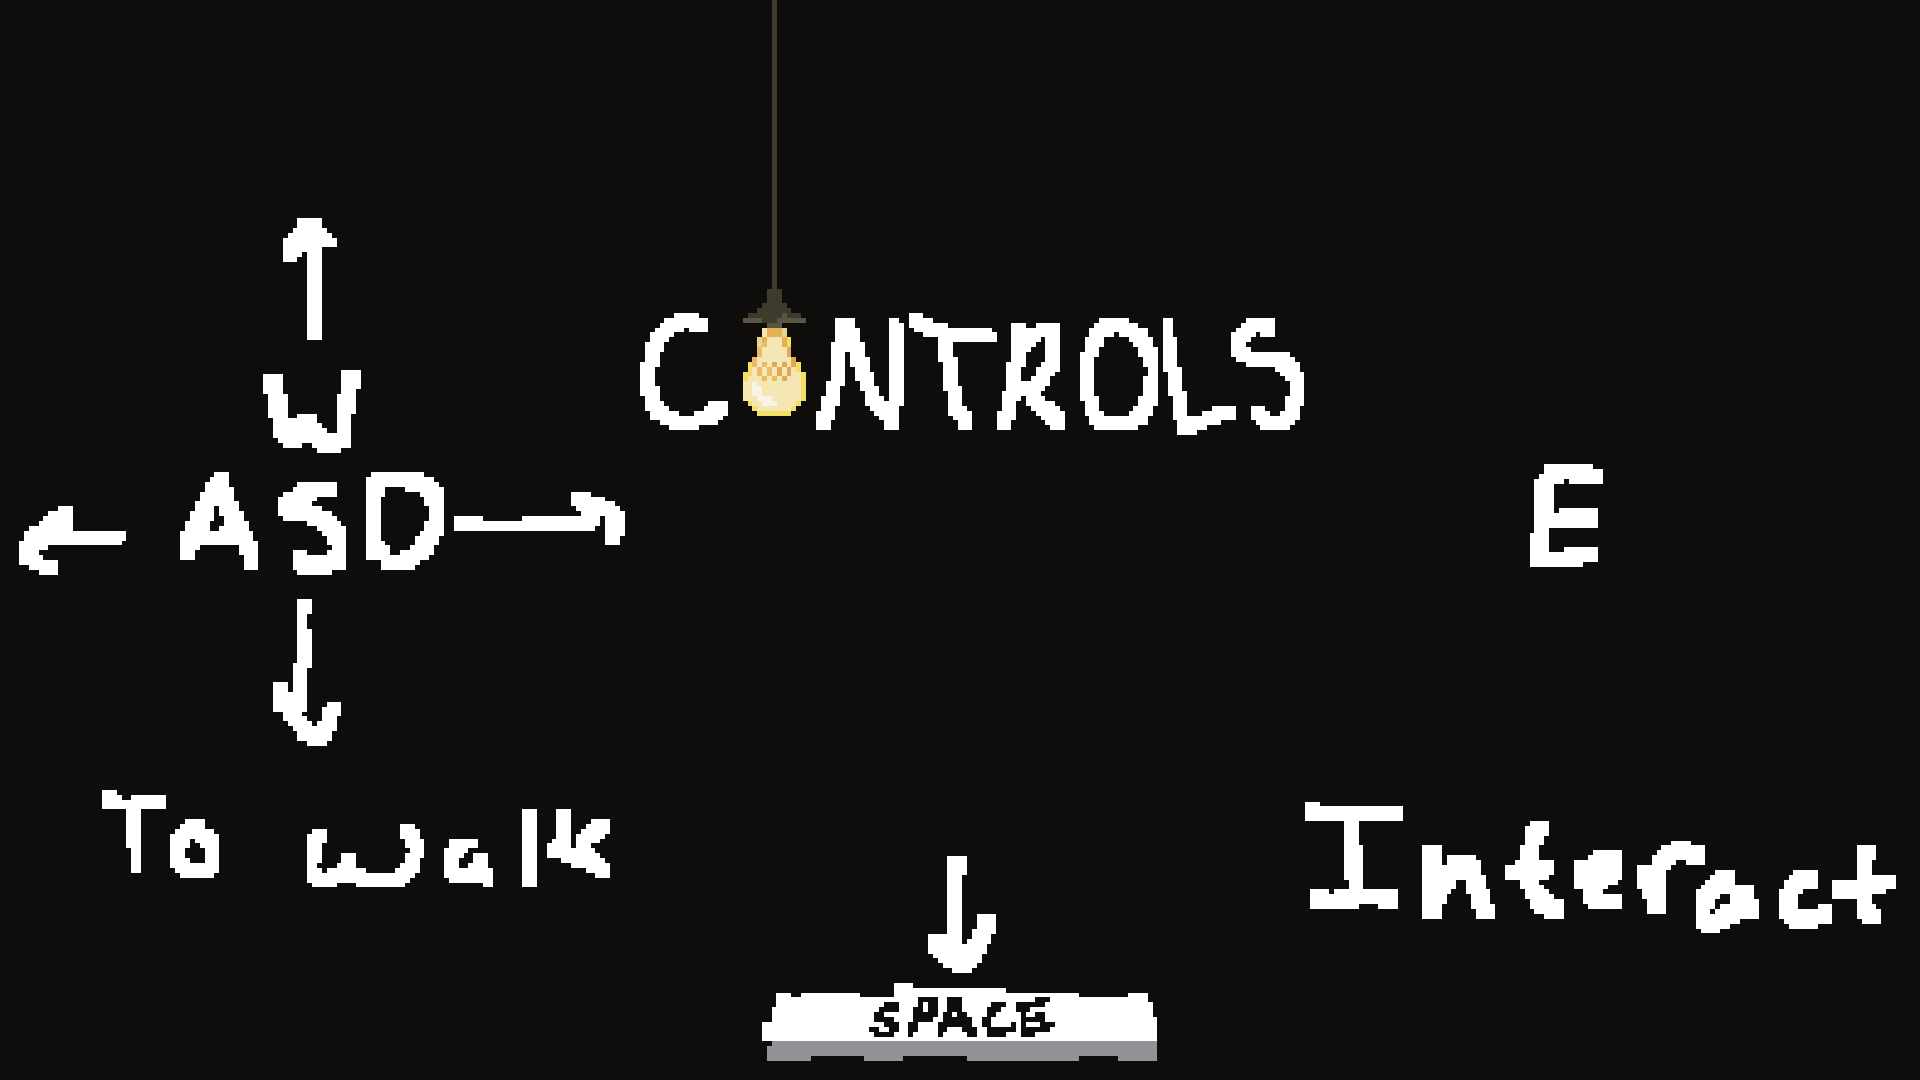
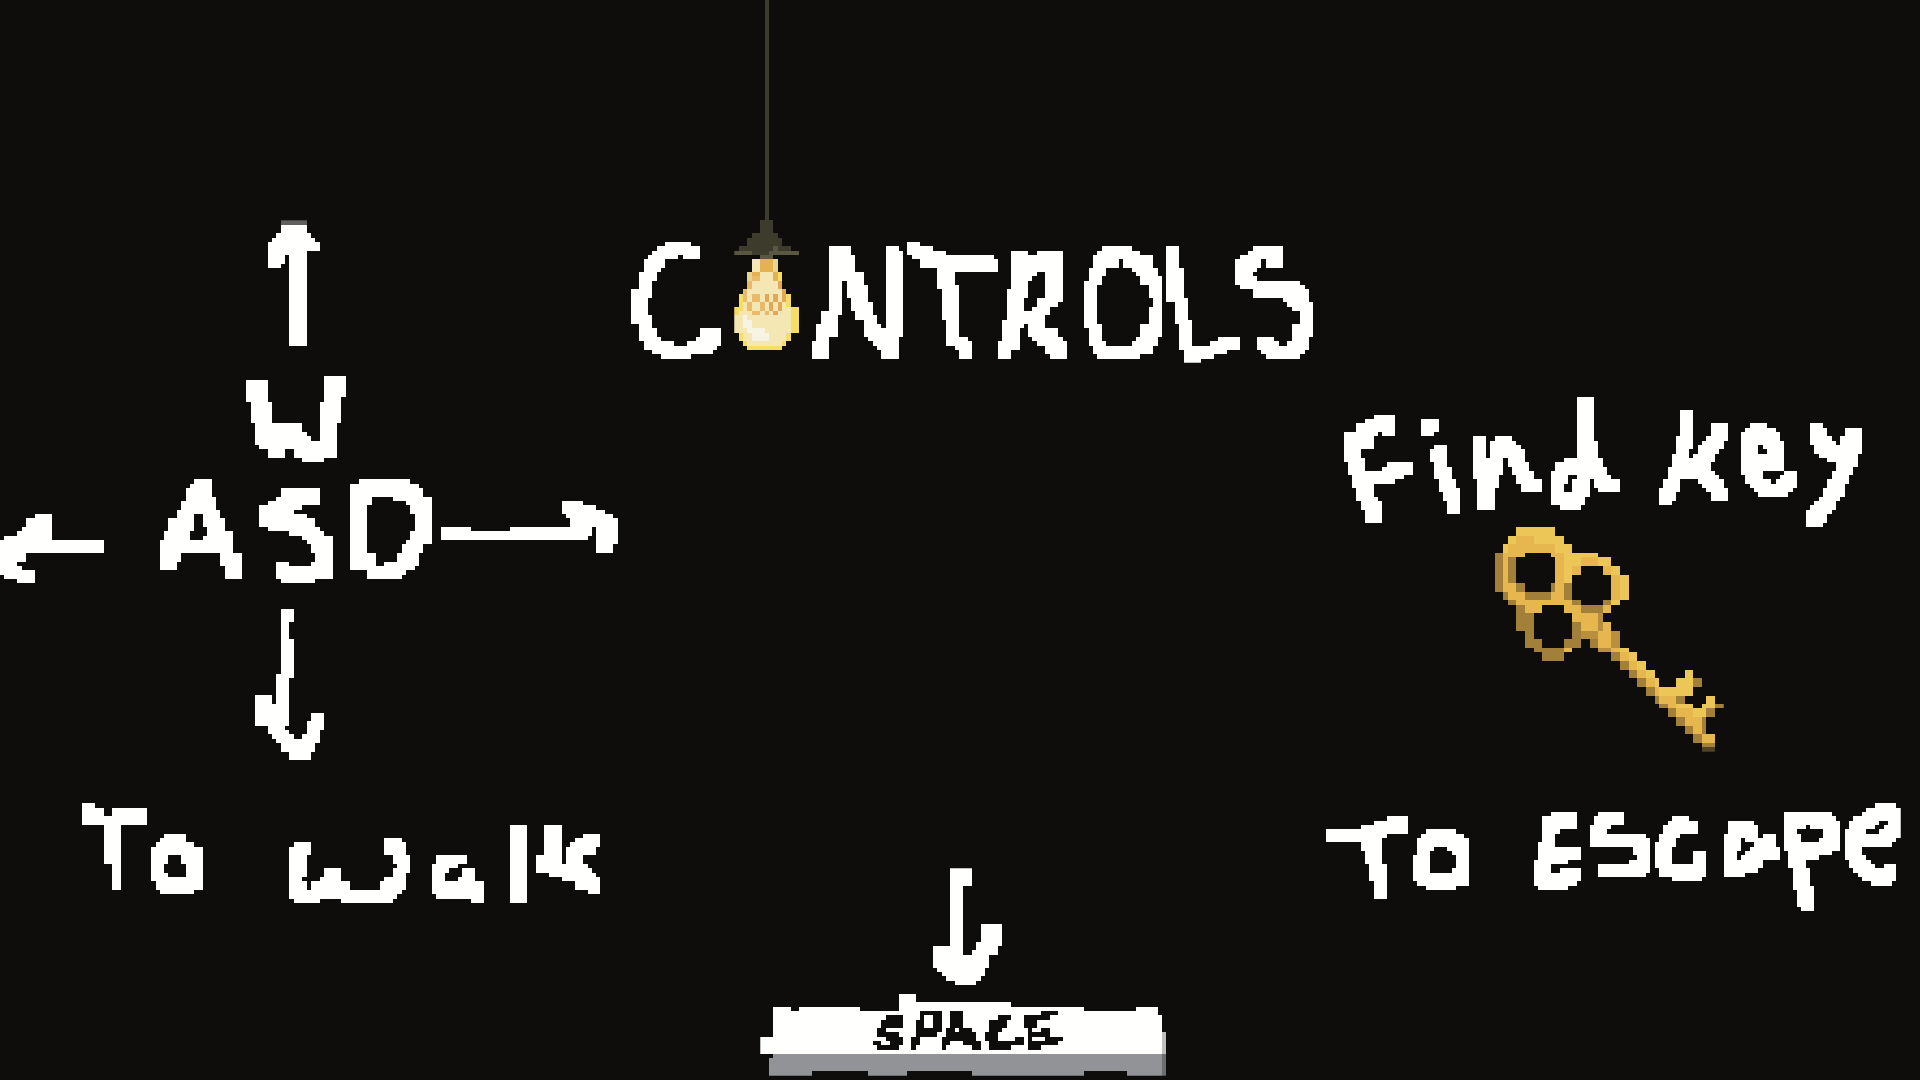
Player animation implemented, commented, controls screen updated

diff --git a/Dull-Radiance/Player.cs b/Dull-Radiance/Player.cs
@@ -8,6 +8,29 @@ using Microsoft.Xna.Framework;
 using Microsoft.Xna.Framework.Graphics;
 using Microsoft.Xna.Framework.Input;
 
+//for animating movement
+public enum AnimationState
+{
+    FaceLeft,
+    FaceRight,
+    WalkLeft,
+    WalkRight
+}
+
+//used in determining up and down directino
+public enum CurrentDirection
+{
+    Left,
+    Right 
+}
+//for detecting up and down movement
+public enum UpNDown
+{
+    WalkUp,
+    WalkDown,
+    Still
+}
+
 namespace Dull_Radiance
 {
     /// <summary>
@@ -32,9 +55,17 @@ namespace Dull_Radiance
         private int playerSpeed;
         private KeyboardState KBState;
 
-        //private PlayerHealth hearts;
+        // Animation data
+        private AnimationState currentState;
+        private UpNDown upDownState;
+        private CurrentDirection direct;
+        private int playerCurrentFrame;
+        private double fps;
+        private double secondsPerFrame;
+        private double timeCounter;
+        private int widthOfSingleSprite;
+        private int numSpritesInsheet;
 
-        
         //Properties
         /// <summary>
         /// Returns player's X position
@@ -60,6 +91,14 @@ namespace Dull_Radiance
             get { return playerRect; }
         }
 
+        public int PlayerSpeed
+        {
+            set
+            {
+                playerSpeed = value;
+            }
+        }
+
         //Constructors
         /// <summary>
         /// Initializes the player's initial position and starting stats
@@ -69,8 +108,6 @@ namespace Dull_Radiance
         {
             this.windowWidth = windowWidth;
             this.windowHeight = windowHeight;
-            //height = windowHeight/60;
-            //width = windowWidth/34;
 
             //Incredibly important rect deciding how far the player can move before getting teleported back
             theBox = new Rectangle(820, 370, 155, 155);
@@ -82,10 +119,19 @@ namespace Dull_Radiance
             width = 190;
             this.playerTexture = playerTexture;
 
-            //playerRect = new Rectangle(960, 540, width, height);
+            //animation stuff
+            fps = 10.0;
+            secondsPerFrame = 1.0 /fps;
+            timeCounter = 0;
+            playerCurrentFrame = 1;
 
-            // Set initial bounds for player object
-            //bounds = new Rectangle(0, 0, 320, 320);
+            numSpritesInsheet = 5;
+
+            widthOfSingleSprite = playerTexture.Width/ numSpritesInsheet;
+
+            currentState = AnimationState.FaceLeft;
+            upDownState = UpNDown.Still;
+
         }
 
         //Methods
@@ -95,7 +141,7 @@ namespace Dull_Radiance
         /// <param name="gameTime">Gametime</param> //TODO i dont actually know what to put in here
         public void Update(GameTime gameTime)   //neccesary? -asking
         {
-            Movement();
+            Movement(gameTime);
         }
 
         //public void PlayerHeal()
@@ -121,24 +167,58 @@ namespace Dull_Radiance
         /// <param name="sb">SpriteBatch sb</param>
         public void Draw(SpriteBatch sb)
         {
-            sb.Draw(
-                playerTexture,
-                playerRect,
-                Color.White);
-        }
-
-        public int PlayerSpeed
-        {
-            set
+            //draws the player's left and right movement
+            switch (currentState)
             {
-                playerSpeed = value;
+                case AnimationState.FaceLeft:
+                    if (upDownState== UpNDown.Still)
+                    {
+                        DrawPlayerStanding(SpriteEffects.FlipHorizontally, sb);
+                    }
+                    break;
+                case AnimationState.FaceRight:
+                    if (upDownState == UpNDown.Still)
+                    {
+                        DrawPlayerStanding(SpriteEffects.None, sb);
+                    }
+                    break;
+                case AnimationState.WalkLeft:
+                    DrawPlayerMoving(SpriteEffects.FlipHorizontally, sb);
+                    break;
+                case AnimationState.WalkRight:
+                    DrawPlayerMoving(SpriteEffects.None, sb);
+                    break;
+            }
+            //draws the player's up and down movement
+            switch(upDownState)
+            {
+                case UpNDown.WalkUp:
+                    if (KBState.IsKeyDown(Keys.W) && direct == CurrentDirection.Left)
+                    {
+                        DrawPlayerMoving(SpriteEffects.FlipHorizontally, sb);
+                    }
+                    else if (KBState.IsKeyDown(Keys.W) && direct == CurrentDirection.Right)
+                    {
+                        DrawPlayerMoving(SpriteEffects.None, sb);
+                    }
+                    break;
+                case UpNDown.WalkDown:
+                    if (KBState.IsKeyDown(Keys.S) && direct == CurrentDirection.Left)
+                    {
+                        DrawPlayerMoving(SpriteEffects.FlipHorizontally, sb);
+                    }
+                    else if (KBState.IsKeyDown(Keys.S) && direct == CurrentDirection.Right)
+                    {
+                        DrawPlayerMoving(SpriteEffects.None, sb);
+                    }
+                    break;
             }
         }
 
         /// <summary>
         /// Players Movement using WASD and Arrow Keys
         /// </summary>
-        public void Movement()
+        public void Movement(GameTime gameTime)
         {
             //KBState
             KBState = Keyboard.GetState();
@@ -160,6 +240,92 @@ namespace Dull_Radiance
             {
                 playerRect.Y += playerSpeed;
             }
+            switch (currentState)
+            {
+                //faceleft -> face right or walk left
+                case AnimationState.FaceLeft:
+                    if (KBState.IsKeyDown(Keys.D))
+                    {
+                        currentState = AnimationState.FaceRight;
+                    }
+                    else if (KBState.IsKeyDown(Keys.A))
+                    {
+                        currentState = AnimationState.WalkLeft;
+                    }
+                    break;
+                //walk left -> face left 
+                case AnimationState.WalkLeft:
+                    if (KBState.IsKeyUp(Keys.A))
+                    {
+                        currentState = AnimationState.FaceLeft;
+                    }
+                    break;
+                //face right -> face left or walk right
+                case AnimationState.FaceRight:
+                    if (KBState.IsKeyDown(Keys.A))
+                    {
+                        currentState = AnimationState.FaceLeft;
+                    }
+                    else if (KBState.IsKeyDown(Keys.D))
+                    {
+                        currentState = AnimationState.WalkRight;
+                    }
+                    break;
+                //walk right -> face left
+                case AnimationState.WalkRight:
+                    if (KBState.IsKeyUp(Keys.D))
+                    {
+                        currentState = AnimationState.FaceRight;
+                    }
+                    break;
+            }
+            //fsm for up and down movement and standing still
+            switch (upDownState)
+            {
+                case UpNDown.WalkUp:
+                    if (KBState.IsKeyDown(Keys.S))
+                    {
+                        upDownState = UpNDown.WalkDown;
+                    }
+                    else if (KBState.IsKeyUp(Keys.S) && (KBState.IsKeyUp(Keys.W))) 
+                    {
+                        upDownState = UpNDown.Still;
+                    }
+                    break;
+                case UpNDown.WalkDown:
+                    if (KBState.IsKeyDown(Keys.W))
+                    {
+                        upDownState = UpNDown.WalkUp;
+                    }
+                    else if (KBState.IsKeyUp(Keys.W) && KBState.IsKeyUp(Keys.S))
+                    {
+                        upDownState = UpNDown.Still;
+                    }
+                    break;
+                case UpNDown.Still:
+                    if (KBState.IsKeyDown(Keys.W))
+                    {
+                        upDownState = UpNDown.WalkUp;
+                    }
+                    else if (KBState.IsKeyDown(Keys.S))
+                    {
+                        upDownState = UpNDown.WalkDown;
+                    }
+                    break;
+
+            }
+            //used in deciding direction for player up and down movement
+            if ((currentState == AnimationState.WalkLeft) || (currentState == AnimationState.FaceLeft))
+            {
+                direct = CurrentDirection.Left;
+            }
+            else if ((currentState == AnimationState.WalkRight) || (currentState == AnimationState.FaceRight))
+            {
+                direct = CurrentDirection.Right;
+            }
+            // Always update the animation
+            UpdateAnimation(gameTime);
+
         }
 
         /// <summary>
@@ -201,6 +367,75 @@ namespace Dull_Radiance
         {
             playerRect.X = x;
             playerRect.Y = y;
+        }
+
+        /// <summary>
+        /// Updates the current frame of the animation that is active
+        /// </summary>
+        /// <param name="gameTime">IN game time</param>
+        private void UpdateAnimation(GameTime gameTime)
+        {
+            timeCounter += gameTime.ElapsedGameTime.TotalSeconds;
+
+            //checks if ready to go to next animation
+            if (timeCounter >= secondsPerFrame)
+            {
+                // change frames
+                playerCurrentFrame++;
+                if (playerCurrentFrame >= 4)
+                {
+                    playerCurrentFrame = 1;
+                }
+
+                // reset timer
+                timeCounter -= secondsPerFrame;
+            }
+        }
+
+        /// <summary>
+        /// Draws the player running
+        /// </summary>
+        /// <param name="flip">Effect for flipping the player horizontally</param>
+        /// <param name="sb">For drawing</param>
+        public void DrawPlayerMoving(SpriteEffects flip, SpriteBatch sb)
+        {
+            sb.Draw(
+                playerTexture,                                   // Whole sprite sheet
+                new Vector2(playerRect.X, playerRect.Y),         // Position of the Mario sprite
+                new Rectangle(                                  // Which portion of the sheet is drawn:
+                    playerCurrentFrame * widthOfSingleSprite,   // - Left edge
+                    0,                                          // - Top of sprite sheet
+                    widthOfSingleSprite,                        // - Width 
+                    playerTexture.Height),                       // - Height
+                Color.White,                                    // No change in color
+                0.0f,                                           // No rotation
+                Vector2.Zero,                                   // Start origin at (0, 0) of sprite sheet 
+                1.0f,                                           // Scale
+                flip,                                           // Flip it horizontally or vertically?    
+                0.0f);                                          // Layer depth
+        }
+
+        /// <summary>
+        /// Draws the player just standing and not moving
+        /// </summary>
+        /// <param name="flip">Effect for flipping the player horizontally</param>
+        /// <param name="sb">For drawing</param>
+        private void DrawPlayerStanding(SpriteEffects flip, SpriteBatch sb)
+        { 
+            sb.Draw(
+                playerTexture,                                   // Whole sprite sheet
+                new Vector2(playerRect.X, playerRect.Y),                                  // Position of the Mario sprite
+                new Rectangle(                                  // Which portion of the sheet is drawn:
+                    0,                                          // - Left edge
+                    0,                                          // - Top of sprite sheet
+                    widthOfSingleSprite,                        // - Width 
+                    playerTexture.Height),                       // - Height
+                Color.White,                                    // No change in color
+                0.0f,                                           // No rotation
+                Vector2.Zero,                                   // Start origin at (0, 0) of sprite sheet 
+                1.0f,                                           // Scale
+                flip,                                           // Flip it horizontally or vertically?    
+                0.0f);                                          // Layer depth
         }
     }
 }

diff --git a/Dull-Radiance/Game1.cs b/Dull-Radiance/Game1.cs
@@ -565,7 +565,7 @@ namespace Dull_Radiance
                     #endregion
 
                     // Move Player
-                    player.Movement();
+                    player.Movement(gameTime);
                     string result = player.CheckPosition();
                     mapMaker.DetectMovement(result);
 
